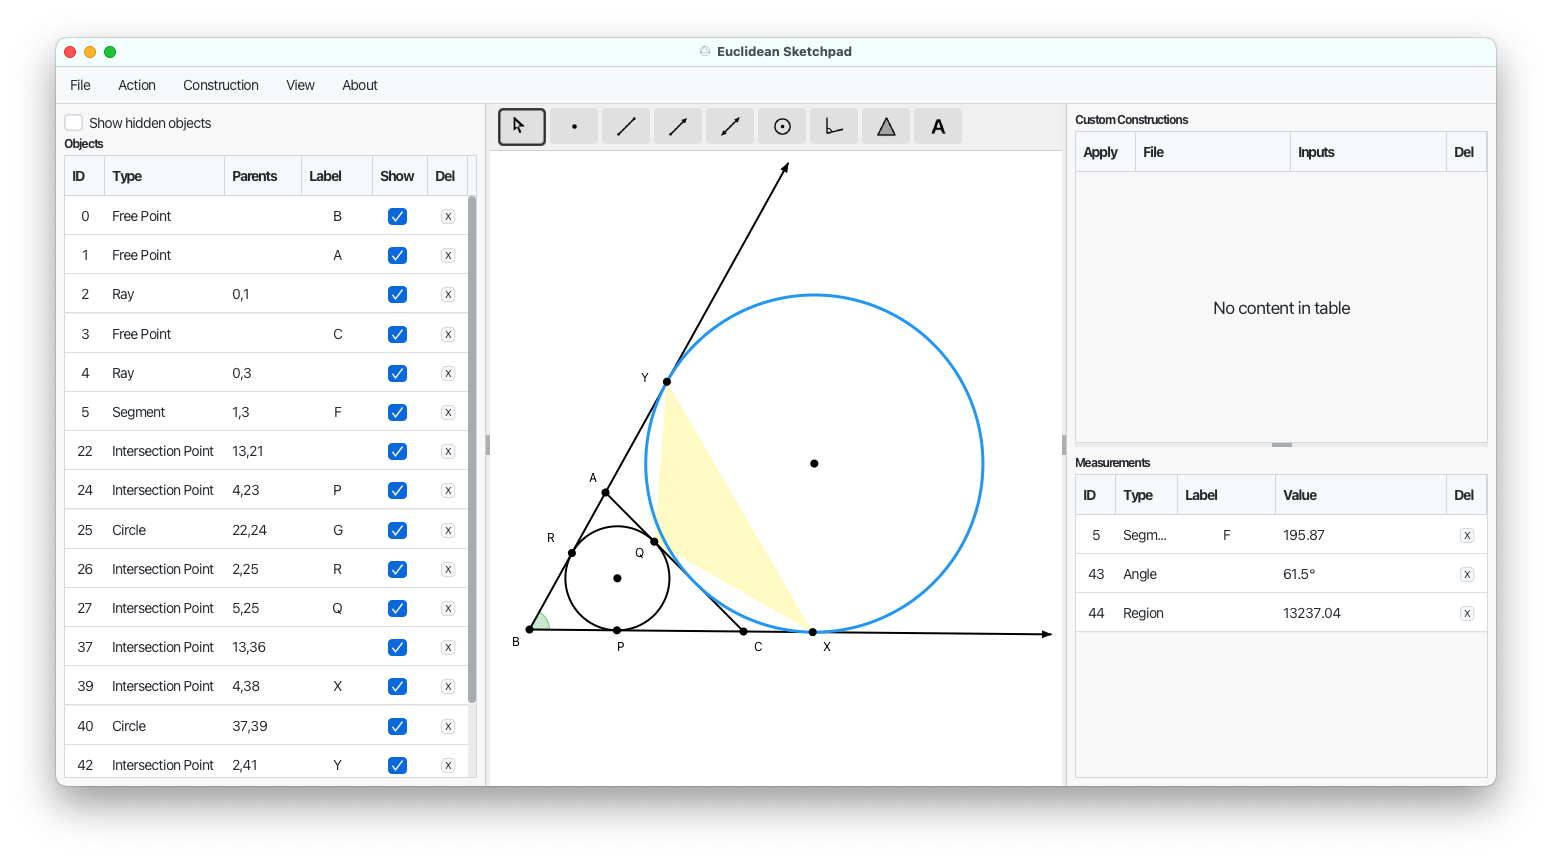
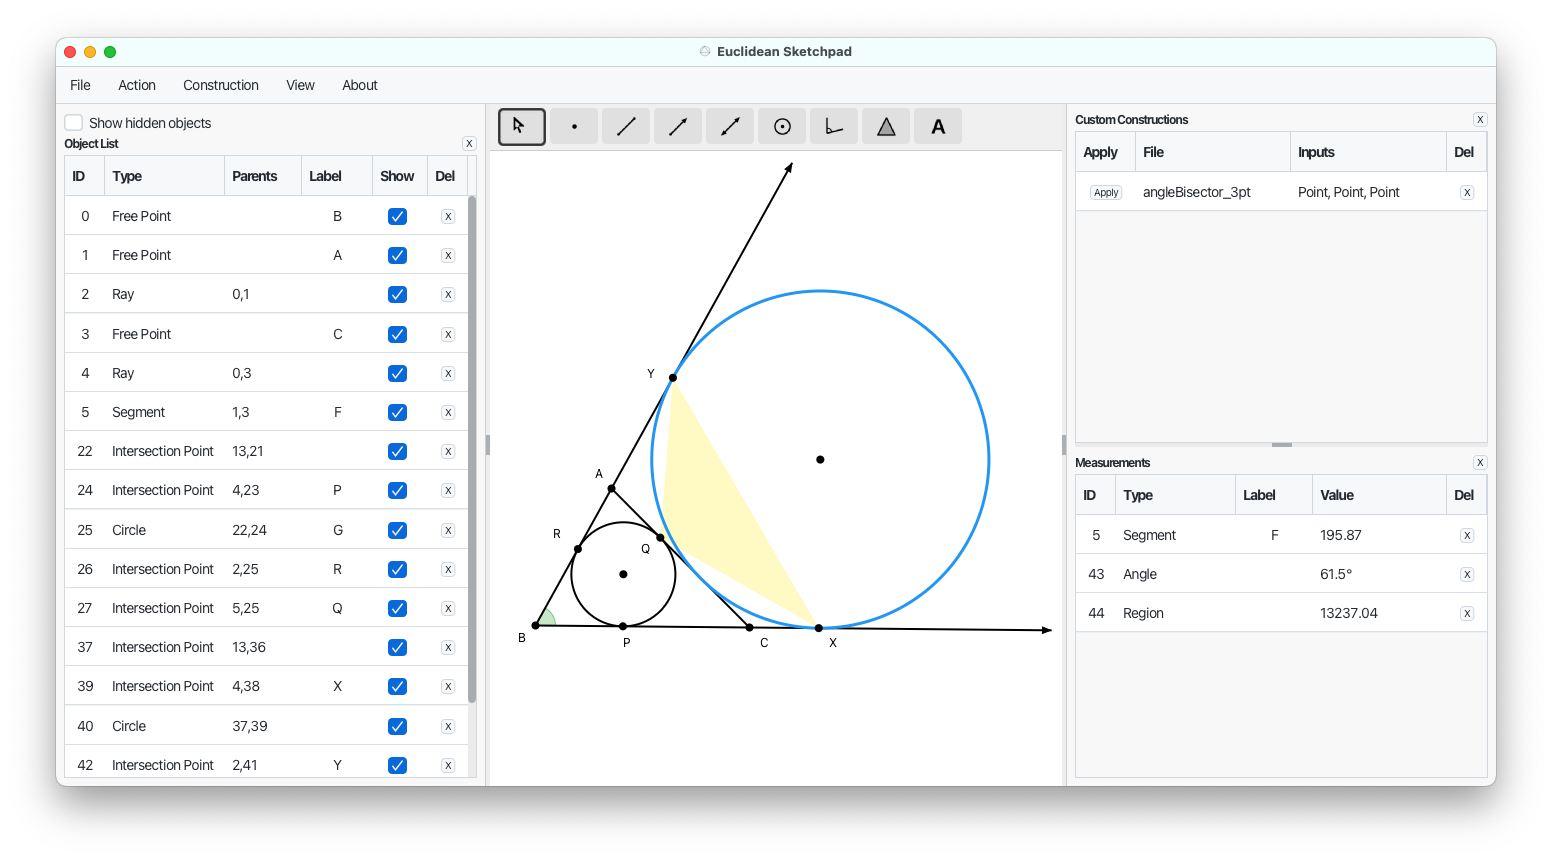
Release v1.4.0

diff --git a/src/main/kotlin/euclideansketchpad/ui/Sidebar.kt b/src/main/kotlin/euclideansketchpad/ui/Sidebar.kt
@@ -12,6 +12,7 @@ import javafx.scene.control.*
 import javafx.scene.input.MouseButton
 import javafx.scene.input.MouseEvent
 import javafx.scene.control.cell.TextFieldTableCell
+import javafx.scene.layout.HBox
 import javafx.scene.layout.Priority
 import javafx.scene.layout.VBox
 import javafx.scene.text.Text
@@ -34,8 +35,15 @@ class Sidebar(
     private var externalSelectedIds = mutableSetOf<Int>()
     private var updatingFromExternal = false
 
+    var onCloseObjectList: (() -> Unit)? = null
+    var onCloseConstructions: (() -> Unit)? = null
+    var onCloseMeasurements: (() -> Unit)? = null
+
     val leftPane: VBox
     val rightPane: VBox
+    private val rightSplitPane: SplitPane
+    private val constructionsBox: VBox
+    private val measurementsBox: VBox
 
     data class ObjectRow(
         val id: Int,
@@ -66,32 +74,29 @@ class Sidebar(
         setupConstructionTable()
 
         // Left pane: checkbox + objects table
-        val objectLabel = Label("Objects")
-        objectLabel.styleClass.add("sidebar-header")
-        leftPane = VBox(4.0, showHiddenCheckbox, objectLabel, objectTable)
+        val objectHeader = makeHeader("Object List") { onCloseObjectList?.invoke() }
+        leftPane = VBox(4.0, showHiddenCheckbox, objectHeader, objectTable)
         leftPane.styleClass.add("sidebar-left")
         leftPane.padding = Insets(8.0)
         VBox.setVgrow(objectTable, Priority.ALWAYS)
 
         // Right pane: measurements + constructions in vertical split
-        val measurementLabel = Label("Measurements")
-        measurementLabel.styleClass.add("sidebar-header")
-        val constructionLabel = Label("Custom Constructions")
-        constructionLabel.styleClass.add("sidebar-header")
+        val constructionHeader = makeHeader("Custom Constructions") { onCloseConstructions?.invoke() }
+        val measurementHeader = makeHeader("Measurements") { onCloseMeasurements?.invoke() }
 
-        val topBox = VBox(4.0, constructionLabel, constructionTable)
+        constructionsBox = VBox(4.0, constructionHeader, constructionTable)
         VBox.setVgrow(constructionTable, Priority.ALWAYS)
-        val bottomBox = VBox(4.0, measurementLabel, measurementTable)
-        bottomBox.padding = Insets(8.0, 0.0, 0.0, 0.0)
+        measurementsBox = VBox(4.0, measurementHeader, measurementTable)
+        measurementsBox.padding = Insets(8.0, 0.0, 0.0, 0.0)
         VBox.setVgrow(measurementTable, Priority.ALWAYS)
 
-        val splitPane = SplitPane()
-        splitPane.items.addAll(topBox, bottomBox)
-        splitPane.orientation = javafx.geometry.Orientation.VERTICAL
-        splitPane.setDividerPositions(0.5)
-        VBox.setVgrow(splitPane, Priority.ALWAYS)
+        rightSplitPane = SplitPane()
+        rightSplitPane.items.addAll(constructionsBox, measurementsBox)
+        rightSplitPane.orientation = javafx.geometry.Orientation.VERTICAL
+        rightSplitPane.setDividerPositions(0.5)
+        VBox.setVgrow(rightSplitPane, Priority.ALWAYS)
 
-        rightPane = VBox(4.0, splitPane)
+        rightPane = VBox(4.0, rightSplitPane)
         rightPane.styleClass.add("sidebar-right")
         rightPane.padding = Insets(8.0)
     }
@@ -247,8 +252,8 @@ class Sidebar(
 
         val typeCol = TableColumn<MeasurementRow, String>("Type")
         typeCol.setCellValueFactory { SimpleStringProperty(it.value.type) }
-        typeCol.minWidth = 62.0
-        typeCol.maxWidth = 62.0
+        typeCol.minWidth = 120.0
+        typeCol.maxWidth = 120.0
 
         val labelCol = TableColumn<MeasurementRow, String>("Label")
         labelCol.setCellValueFactory { SimpleStringProperty(it.value.label) }
@@ -420,6 +425,42 @@ class Sidebar(
             }
         }
         updatingFromExternal = false
+    }
+
+    private fun makeHeader(title: String, onClose: () -> Unit): HBox {
+        val label = Label(title)
+        label.styleClass.add("sidebar-header")
+        val spacer = javafx.scene.layout.Region()
+        HBox.setHgrow(spacer, Priority.ALWAYS)
+        val closeBtn = Button("X")
+        closeBtn.styleClass.add("delete-button")
+        closeBtn.setOnAction { onClose() }
+        return HBox(4.0, label, spacer, closeBtn)
+    }
+
+    val isRightPaneEmpty: Boolean
+        get() = rightSplitPane.items.isEmpty()
+
+    fun setConstructionsVisible(visible: Boolean) {
+        if (visible) {
+            if (constructionsBox !in rightSplitPane.items) {
+                rightSplitPane.items.add(0, constructionsBox)
+            }
+        } else {
+            rightSplitPane.items.remove(constructionsBox)
+        }
+        if (rightSplitPane.items.size == 2) rightSplitPane.setDividerPositions(0.5)
+    }
+
+    fun setMeasurementsVisible(visible: Boolean) {
+        if (visible) {
+            if (measurementsBox !in rightSplitPane.items) {
+                rightSplitPane.items.add(measurementsBox)
+            }
+        } else {
+            rightSplitPane.items.remove(measurementsBox)
+        }
+        if (rightSplitPane.items.size == 2) rightSplitPane.setDividerPositions(0.5)
     }
 
     private fun getTypeName(obj: GeometricObject): String = when (obj) {

diff --git a/src/main/kotlin/euclideansketchpad/ui/SketchpadApp.kt b/src/main/kotlin/euclideansketchpad/ui/SketchpadApp.kt
@@ -594,6 +594,17 @@ class SketchpadApp : Application() {
             midpointItem, parallelLineItem, perpendicularLineItem, reflectionPointItem
         )
 
+        // Center column: toolbar on top, canvas below
+        val centerColumn = VBox()
+        centerColumn.children.addAll(toolbar, canvasPane)
+        VBox.setVgrow(canvasPane, Priority.ALWAYS)
+
+        // 3-column horizontal SplitPane
+        val mainSplit = SplitPane()
+        mainSplit.orientation = javafx.geometry.Orientation.HORIZONTAL
+        mainSplit.items.addAll(sidebar.leftPane, centerColumn, sidebar.rightPane)
+        mainSplit.setDividerPositions(0.30, 0.70)
+
         val viewMenu = Menu("View")
         val toggleGridItem = MenuItem("Show Grid")
         toggleGridItem.accelerator = KeyCombination.valueOf("Shortcut+G")
@@ -602,7 +613,52 @@ class SketchpadApp : Application() {
             toggleGridItem.text = if (canvasPane.gridVisible) "Hide Grid" else "Show Grid"
             requestRender()
         }
-        viewMenu.items.addAll(toggleGridItem)
+        // Table visibility toggles
+        var objectsVisible = true
+        var constructionsVisible = true
+        var measurementsVisible = true
+
+        fun updateMainSplitLayout() {
+            mainSplit.items.clear()
+            if (objectsVisible) mainSplit.items.add(sidebar.leftPane)
+            mainSplit.items.add(centerColumn)
+            if (!sidebar.isRightPaneEmpty) mainSplit.items.add(sidebar.rightPane)
+            when {
+                objectsVisible && !sidebar.isRightPaneEmpty -> mainSplit.setDividerPositions(0.30, 0.70)
+                objectsVisible -> mainSplit.setDividerPositions(0.30)
+                !sidebar.isRightPaneEmpty -> mainSplit.setDividerPositions(0.70)
+            }
+        }
+
+        val toggleObjectsItem = MenuItem("Hide Object List")
+        toggleObjectsItem.setOnAction {
+            objectsVisible = !objectsVisible
+            toggleObjectsItem.text = if (objectsVisible) "Hide Object List" else "Show Object List"
+            if (objectsVisible) requestRender()
+            updateMainSplitLayout()
+        }
+
+        val toggleConstructionsItem = MenuItem("Hide Custom Constructions")
+        toggleConstructionsItem.setOnAction {
+            constructionsVisible = !constructionsVisible
+            toggleConstructionsItem.text = if (constructionsVisible) "Hide Custom Constructions" else "Show Custom Constructions"
+            sidebar.setConstructionsVisible(constructionsVisible)
+            updateMainSplitLayout()
+        }
+
+        val toggleMeasurementsItem = MenuItem("Hide Measurements")
+        toggleMeasurementsItem.setOnAction {
+            measurementsVisible = !measurementsVisible
+            toggleMeasurementsItem.text = if (measurementsVisible) "Hide Measurements" else "Show Measurements"
+            sidebar.setMeasurementsVisible(measurementsVisible)
+            updateMainSplitLayout()
+        }
+
+        viewMenu.items.addAll(toggleGridItem, SeparatorMenuItem(), toggleObjectsItem, toggleConstructionsItem, toggleMeasurementsItem)
+
+        sidebar.onCloseObjectList = { toggleObjectsItem.fire() }
+        sidebar.onCloseConstructions = { toggleConstructionsItem.fire() }
+        sidebar.onCloseMeasurements = { toggleMeasurementsItem.fire() }
 
         val aboutMenu = Menu("About")
         val aboutItem = MenuItem("About Euclidean Sketchpad")
@@ -644,17 +700,6 @@ class SketchpadApp : Application() {
         aboutMenu.items.add(aboutItem)
 
         menuBar.menus.addAll(fileMenu, actionMenu, constructionMenu, viewMenu, aboutMenu)
-
-        // Center column: toolbar on top, canvas below
-        val centerColumn = VBox()
-        centerColumn.children.addAll(toolbar, canvasPane)
-        VBox.setVgrow(canvasPane, Priority.ALWAYS)
-
-        // 3-column horizontal SplitPane
-        val mainSplit = SplitPane()
-        mainSplit.orientation = javafx.geometry.Orientation.HORIZONTAL
-        mainSplit.items.addAll(sidebar.leftPane, centerColumn, sidebar.rightPane)
-        mainSplit.setDividerPositions(0.30, 0.70)
 
         val root = BorderPane()
         root.top = menuBar

diff --git a/src/main/kotlin/euclideansketchpad/Main.kt b/src/main/kotlin/euclideansketchpad/Main.kt
@@ -3,7 +3,7 @@ package euclideansketchpad
 import javafx.application.Application
 import euclideansketchpad.ui.SketchpadApp
 
-const val APP_VERSION = "1.3.0"
+const val APP_VERSION = "1.4.0"
 
 fun main() {
     Application.launch(SketchpadApp::class.java)

diff --git a/handoff/HANDOFF.md b/handoff/HANDOFF.md
@@ -8,7 +8,7 @@
 - **Build:** `./gradlew clean test` passes (136 tests). Clean build.
 - **Git:** `.claude/` is gitignored.
 - **Runtime:** `./gradlew run` launches the full app.
-- **Packaging:** `./gradlew jpackage` produces `build/jpackage/EuclideanSketchpad-1.3.0.dmg` (~35 MB). `./gradlew jpackageImage` builds just the `.app` (faster, for testing). Not code-signed.
+- **Packaging:** `./gradlew jpackage` produces `build/jpackage/EuclideanSketchpad-1.4.0.dmg` (~35 MB). `./gradlew jpackageImage` builds just the `.app` (faster, for testing). Not code-signed.
 - **Spec alignment:** All features described in `spec/SPEC.md` are implemented, including the `LinearLike` interface, 4 built-in constructions, specific type display names, "Custom Constructions" table rename, and viewport clipping for all object types.
 
 ## Architecture Notes
@@ -32,6 +32,8 @@
 - **Point clamping is viewport-aware.** Free points created by `PointTool` or auto-constructed via `ToolUtils.resolveOrCreatePoint()` are clamped to the clip rect. `SelectionTool` clamps `FreePoint` drag destinations. Derived points (intersections, semi-free, construction results) are not clamped.
 - **Export clipping uses the same 2% inset.** `ExportRenderer` clips lines/rays/circles in math coordinates against a 2% inset of the export bounds, then transforms to pixel coordinates. For auto-fit exports, `computeAutoFitBounds()` uses an 8% margin (4× `VIEWPORT_MARGIN_FRACTION`) for comfortable padding beyond the clip boundary.
 - **Angle hit-testing uses zoom-aware arc radius.** Unlike other hit-test tiers that use the snap radius, the angle tier uses `ANGLE_ARC_RADIUS / scale` to match the visual arc size exactly. `Angle.containsPoint()` checks if the point is within the arc sector at this radius. First match wins (no distance tiebreaker), similar to regions.
+- **Table visibility is view-only state.** The View menu has Show/Hide toggles for Object List, Custom Constructions, and Measurements. Each table header also has an "X" close button wired to the same toggle. `Sidebar` exposes `setConstructionsVisible()`, `setMeasurementsVisible()`, and `isRightPaneEmpty` for the right pane's internal `SplitPane`. `SketchpadApp.updateMainSplitLayout()` rebuilds the outer `SplitPane` items based on which panes have visible content. Visibility is not persisted or undo-tracked.
+- **`javafx.scene.layout.Region` is not imported in `Sidebar.kt`** to avoid shadowing the geometry `Region` class used in the exhaustive `when` in `getTypeName()`. The layout `Region` (used as a spacer in header `HBox`es) is referenced by fully qualified name.
 - **Export label offsets negate `labelOffsetY`.** The canvas renderer positions labels at `anchorY + offsetY` in world coordinates and applies `scaleY = -1` to un-mirror text — the visual flip implicitly inverts the offset direction. The export renderers use `ty()` (which already flips y mathematically), so they apply `ty(anchorY) - offsetY` to produce the same visual result.
 
 ## Known Issues / Gaps

diff --git a/spec/SPEC.md b/spec/SPEC.md
@@ -186,9 +186,11 @@ Three-column layout. Initial window size: **1440x720**. Initial divider position
 +------------------+-------------------------------------------+------------------+
 ```
 
-- **Left pane**: "Show hidden objects" checkbox + Object list table.
+- **Left pane**: "Show hidden objects" checkbox + Object List table.
 - **Center column**: `VBox` containing the toolbar and canvas. Not a `SplitPane` child — it sits between the two `SplitPane` children.
 - **Right pane**: vertical `SplitPane` with Custom Constructions table (top) and Measurements table (bottom). Divider at 50%.
+- **Table headers**: each table ("Object List", "Custom Constructions", "Measurements") has a header row with the title left-aligned and a close button ("X") right-aligned. Clicking the close button hides that table, equivalent to the corresponding View menu toggle.
+- **Pane visibility**: toggled via View menu or header close buttons. When all tables in a pane are hidden, the pane is removed from the outer `SplitPane`. When a table is shown again, its pane is re-added with default divider positions. Not persisted across sessions.
 
 ### 4.2 Object List Table
 
@@ -233,7 +235,7 @@ Three-column layout. Initial window size: **1440x720**. Initial divider position
 | Column | Width | Description |
 |--------|-------|-------------|
 | ID | 40px fixed | Object ID |
-| Type | 62px fixed | Display type name |
+| Type | 120px fixed | Display type name |
 | Label | flex | Object label |
 | Value | flex | Formatted measurement value |
 | Del | 40px fixed | "X" button to remove from table (does not delete object) |
@@ -450,6 +452,10 @@ All File menu items are disabled during construction recording.
 | Item | Shortcut | Description |
 |------|----------|-------------|
 | Show Grid / Hide Grid | ⌘G | Toggle grid visibility (label toggles) |
+| *(separator)* | | |
+| Show / Hide Object List | — | Toggle left pane visibility (label toggles) |
+| Show / Hide Custom Constructions | — | Toggle constructions table in right pane (label toggles) |
+| Show / Hide Measurements | — | Toggle measurements table in right pane (label toggles) |
 
 ### 8.5 About Menu
 

diff --git a/CHANGELOG.md b/CHANGELOG.md
@@ -11,6 +11,14 @@ The format is based on [Keep a Changelog](https://keepachangelog.com/), and this
 - Angles are now hit-testable on the canvas: hover highlighting, selection with the Select tool, label assignment with the Label tool, and hiding with click all work on angle arcs
 - New `HitResult.OnAngle` variant and tier 2 in the hit-tester (between points and intersection previews), using zoom-aware arc radius matching the visual arc size
 - `Angle.containsPoint(x, y, arcRadiusWorld)` method for checking if a point falls inside the arc sector
+- View menu items to show/hide the Object List, Custom Constructions, and Measurements tables. Hiding all tables in a pane removes the pane from the layout; showing restores it
+- Close buttons on each table header (Object List, Custom Constructions, Measurements) that hide the corresponding table, equivalent to the View menu toggle
+
+### Changed
+
+- Renamed the left pane header from "Objects" to "Object List"
+- Widened the Measurements table Type column from 62px to 120px to match the Object List table
+- Updated application screenshot
 
 ## [1.3.0] - 2026-10-20
 
